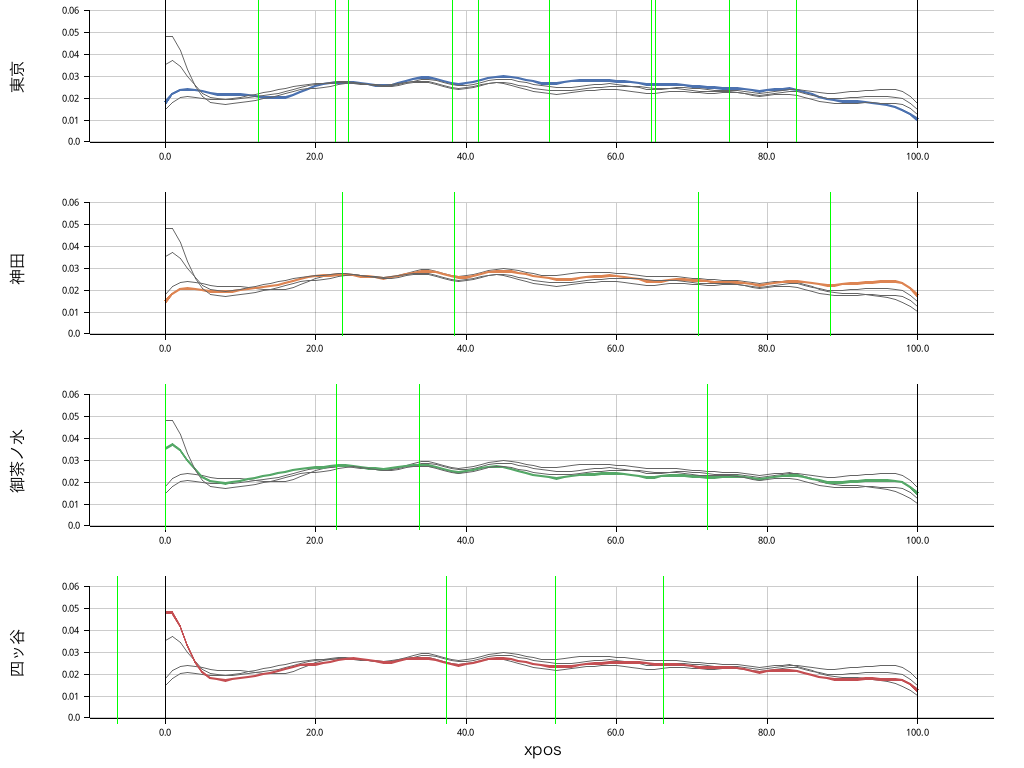
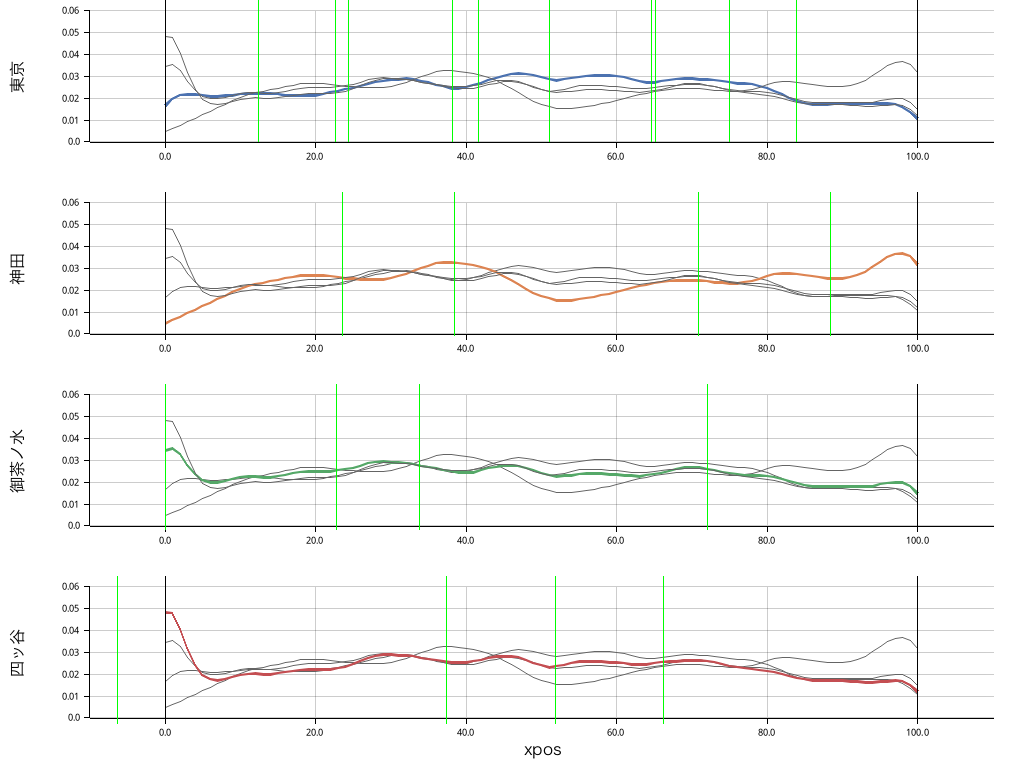
Add step-by-step.png

diff --git a/README.md b/README.md
@@ -6,7 +6,9 @@ Simulates the distribution of passengers inside a train along its journey. Highe
 
 It assumes that the biggest/only factor in the spatial distribution of passengers is the location of "stairs" (stairs and escalators) on station platforms.
 
-A random beta distribution is generated for every "stair" location, plus a smaller random uniform distribution. This is added up for every station cumulatively. Origin-destination data is used to model passengers alighting the train cumulatively.
+![step-by-step](examples/step-by-step.png)
+
+Two random beta distributions are generated for every "stair" location, one with a larger and the other a smaller variance. A smaller random uniform distribution is also generated. The three are added up for every stair in every station cumulatively. Origin-destination data is used to model passengers alighting the train cumulatively.
 
 The beta distribution is used because it is more appropriate to model proportions (which is bounded between 0-1 exclusive). For values exactly at 0 and 1, it turns it into 0.01 and 0.99 for the beta distribution. The normal distribution would cause edge effects on the boundaries because values outside the boundary was clamped. The alternative was to ignore those values, but that would decrease the number of passengers generated.
 
